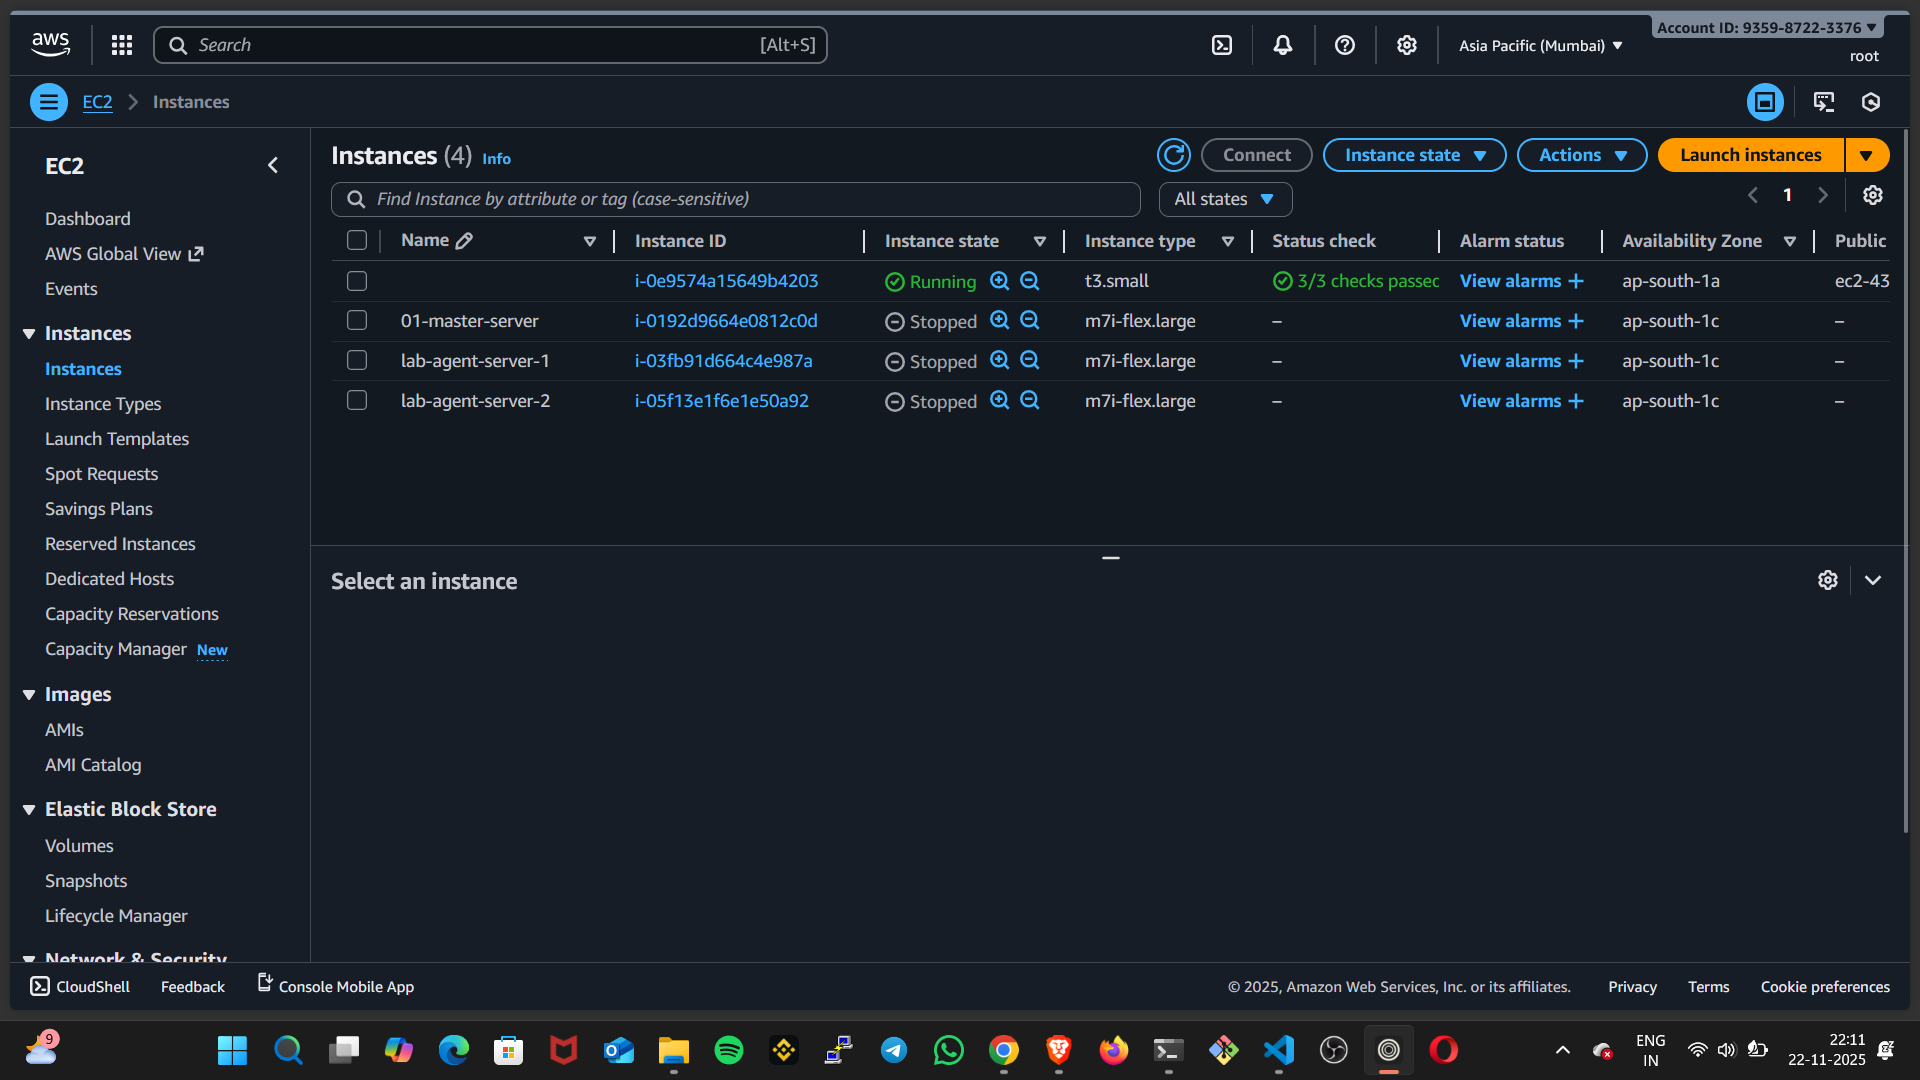
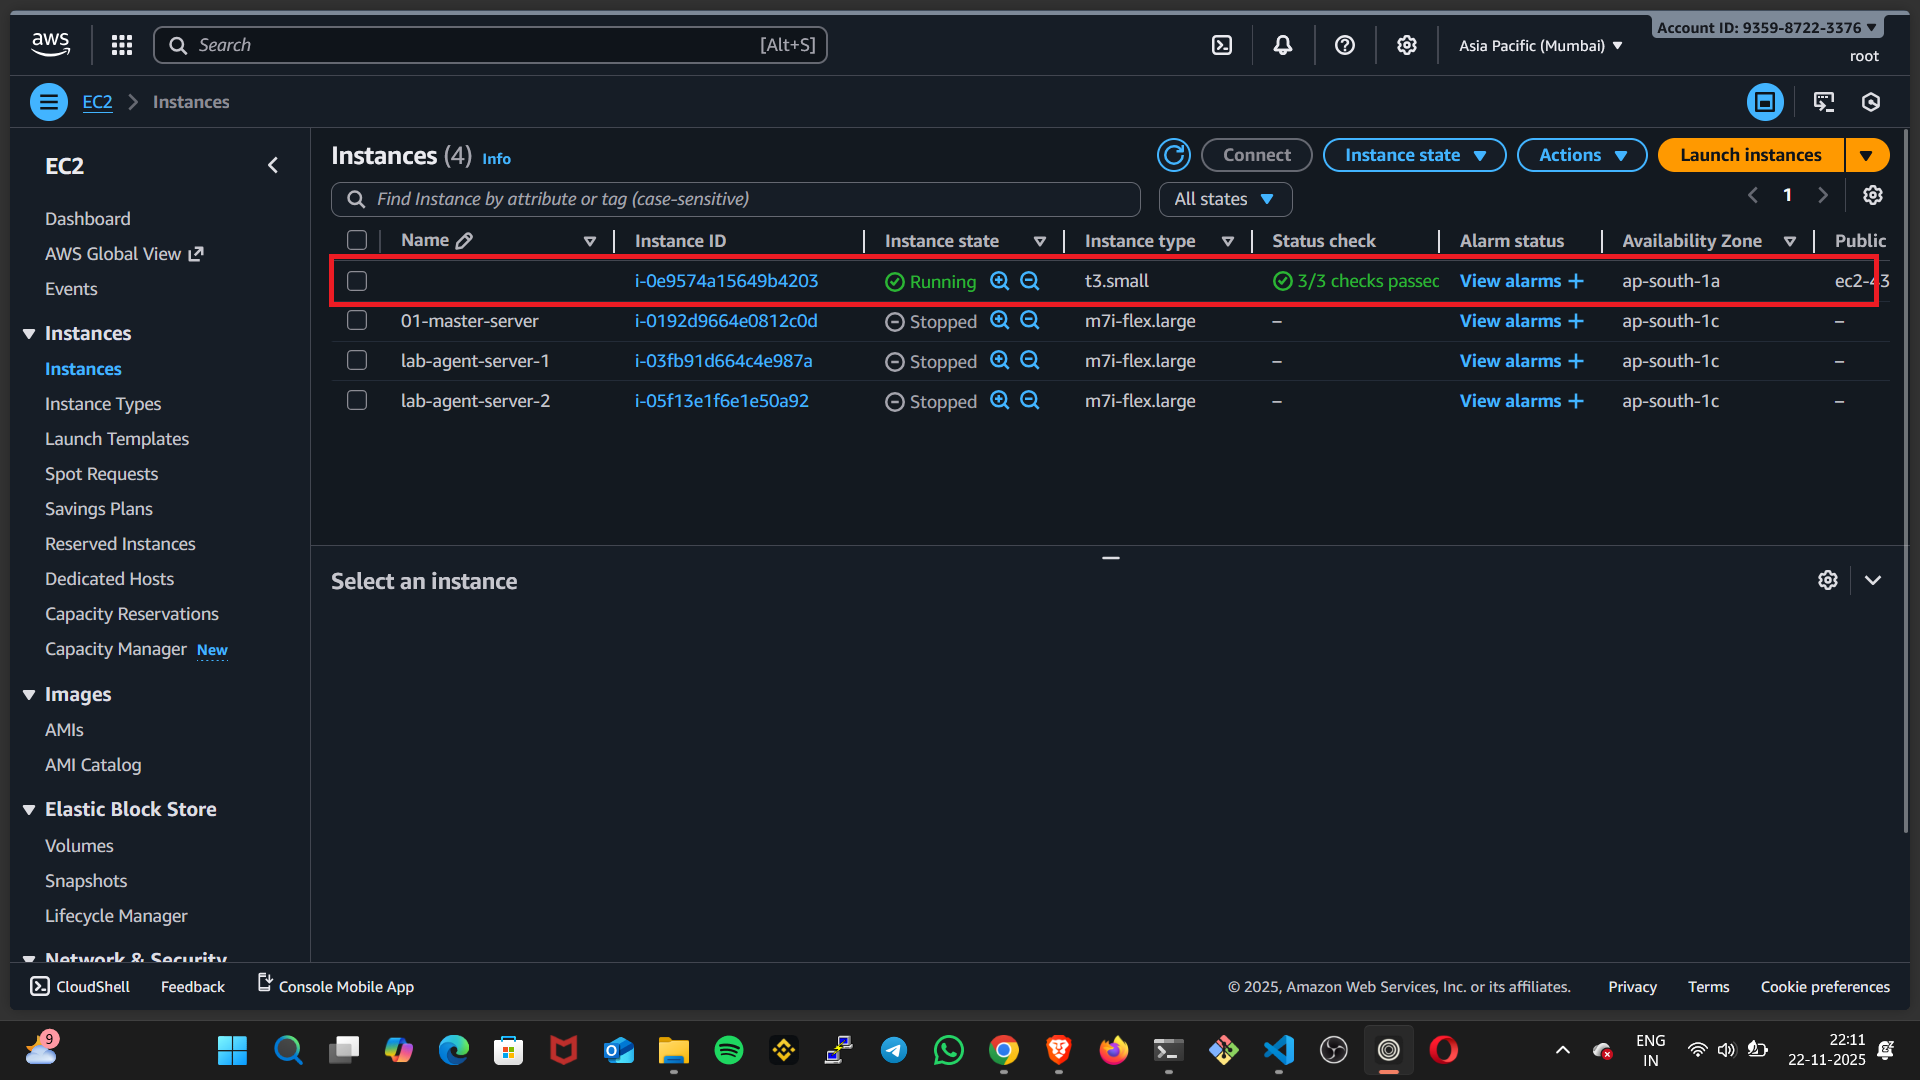
some minor changes

Changed region(s): [[0.1875, 0.275, 0.9688, 0.3056], [0.1875, 0.2139, 0.9688, 0.2444]]

diff --git a/README.md b/README.md
@@ -1,4 +1,3 @@
-
 ---
 
 ```markdown
@@ -19,10 +18,12 @@ Provision resources across multiple cloud providers — such as **AWS EC2** and 
 
 ---
 
+---
 ## 📁 Project Structure
 
+---
 ```
-
+---
 .
 ├── main.tf        # Cloud providers + resources
 ├── variables.tf   # (Optional) Customizable inputs
@@ -30,7 +31,7 @@ Provision resources across multiple cloud providers — such as **AWS EC2** and 
 └── README.md
 
 ````
-
+---
 ---
 
 ## 🔧 Requirements
